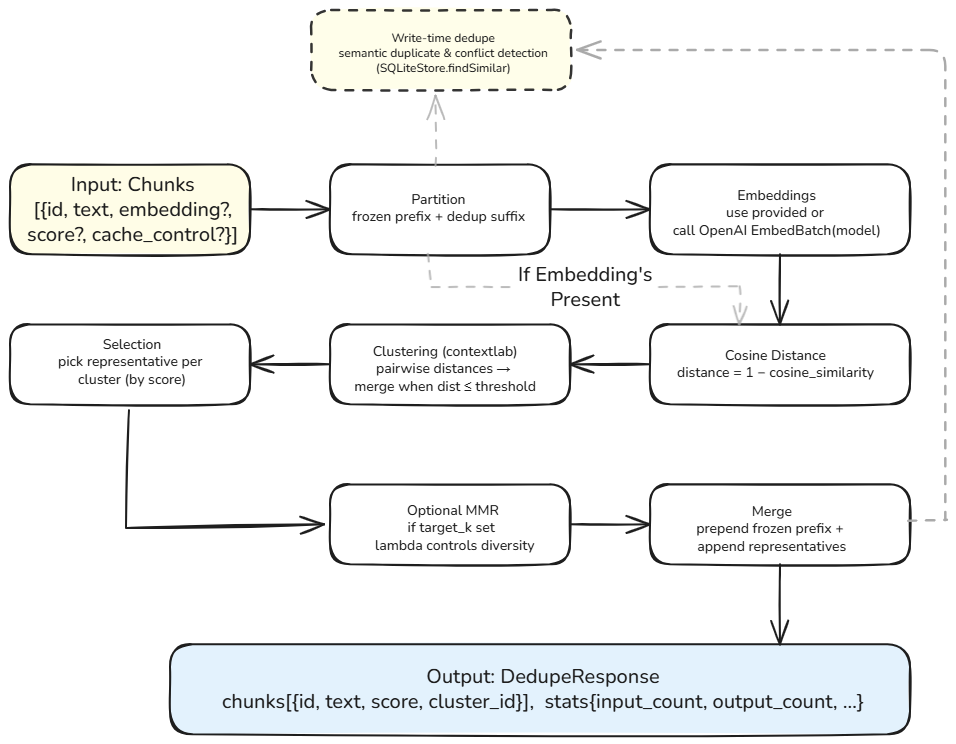
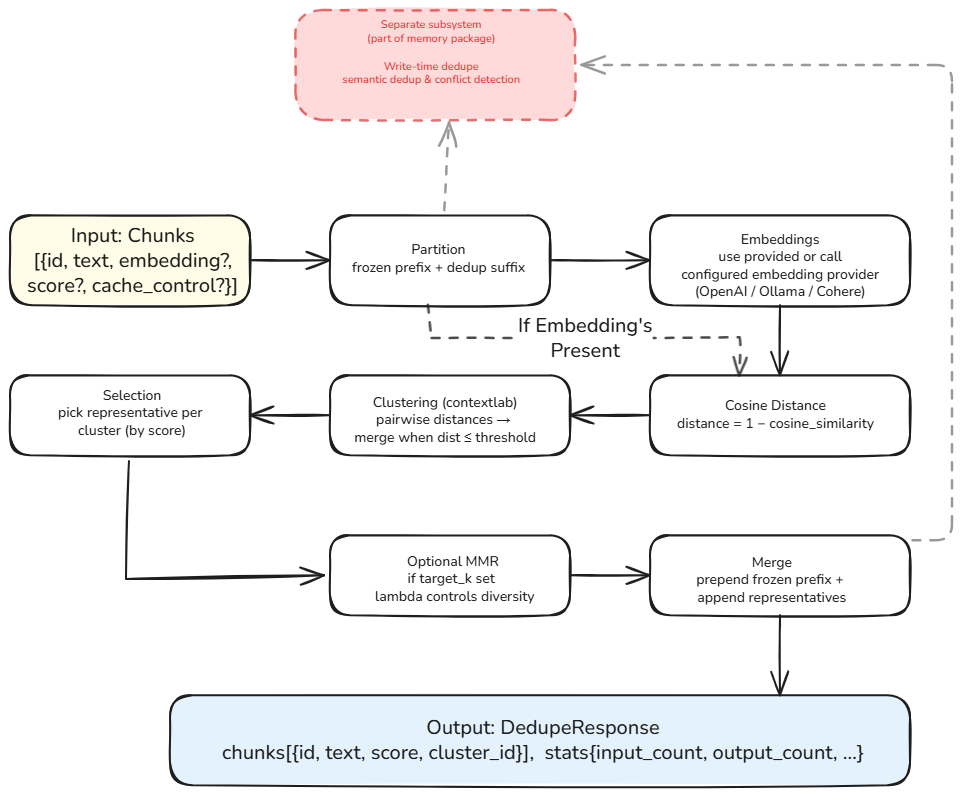
docs: update architecture diagram and improve alt text

Changed region(s): [[0.0, 0.0, 1.0, 0.5874], [0.1213, 0.6183, 1.0, 1.0], [0.1517, 0.9274, 0.182, 0.9583]]

diff --git a/README.md b/README.md
@@ -61,7 +61,7 @@ Query → Over-fetch (50) → Cluster → Select → MMR Re-rank (8) → LLM
 **Result:** Deterministic, diverse context. No LLM calls. Fully auditable.
 
 ### Architecture Diagram
-![alt text](docs\images\architecture-diagram.png)
+![Distill architecture diagram](docs/images/architecture-diagram.png)
 
 
 ## Installation